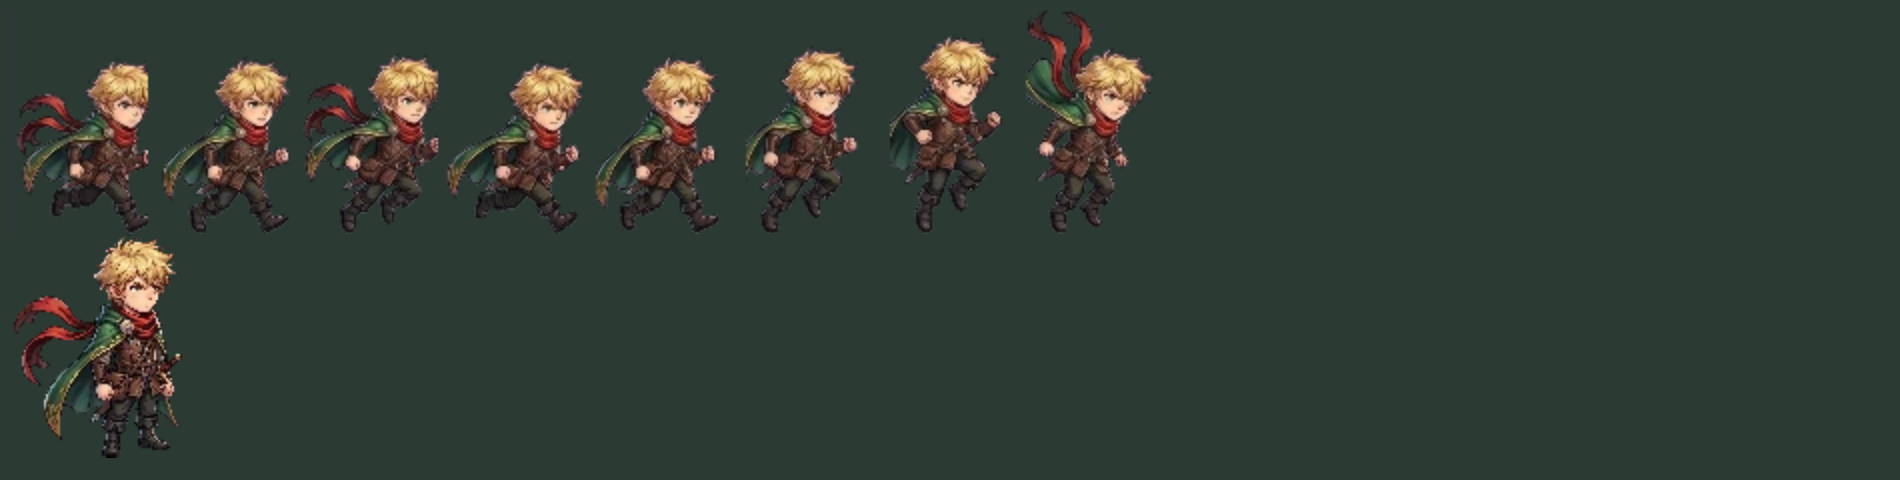
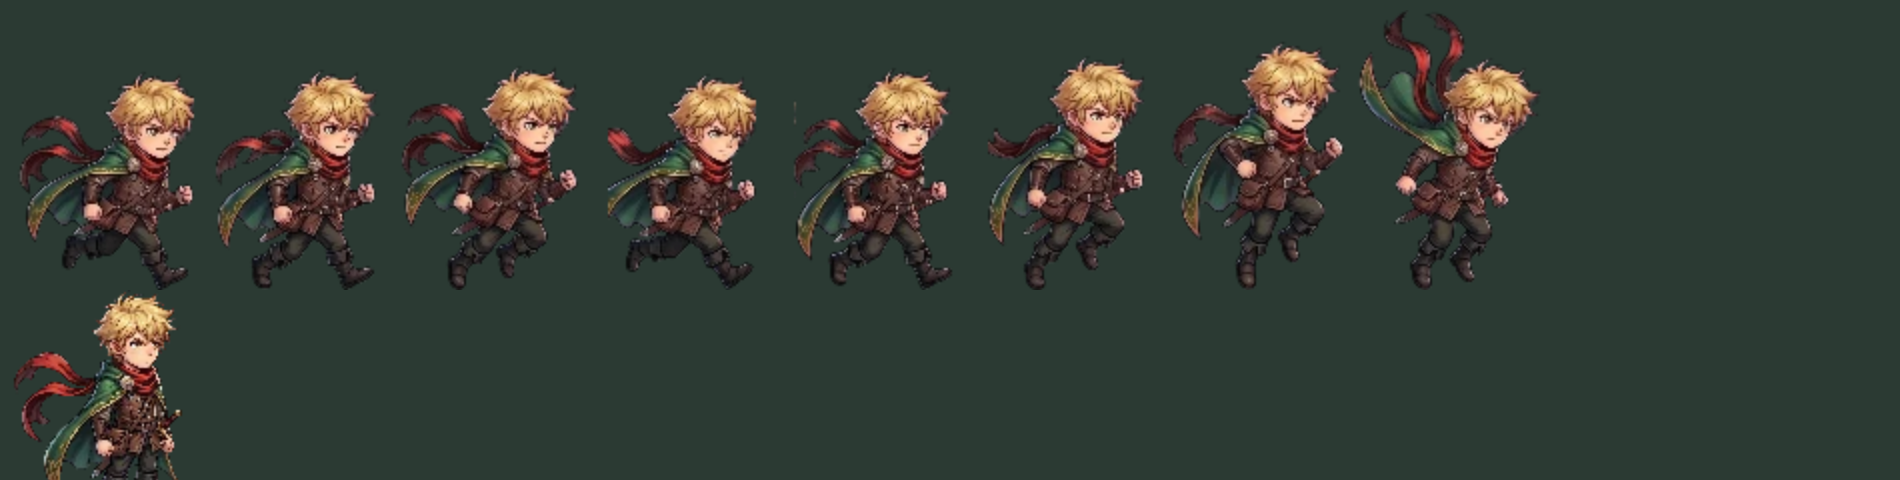
Hero: new 2K run sheet with the scarf in every frame; running and standing now match in size
tools/sheet.mjs scales by the median frame height (shared pixel scale across sheets) and cuts
overlapping frames at the emptiest column between figures.

Changed region(s): [[0.0, 0.0312, 0.8074, 1.0]]

diff --git a/game.js b/game.js
@@ -13,6 +13,7 @@ const COYOTE = 0.1, BUFFER = 0.1, RESPAWN_DELAY = 0.35;
 const SLIDE_SPEED = 320, SLIDE_TIME = 0.4;
 const STAND = [24, 30], FLAT = [40, 14];               // player hitbox
 const HERO_HEIGHT = 46;                                // painted hero's on-screen height (hair pokes above the hitbox)
+const HERO_SRC = 112;                                  // his typical height in the processed images (tools/sheet.mjs --height)
 const BODY_STAND = [30, 32], BODY_LYING = [62, 16];    // body left behind
 
 // Enemies: walkers patrol, turn at walls/bodies/ledges, kill on touch, die when a falling body lands on them.
@@ -303,7 +304,7 @@ class Room extends Phaser.Scene {
     if (this.painted) {
       const tex = this.textures.get('heroSheet'), img = tex.getSourceImage(), fw = img.width / 8;
       if (!tex.has(0)) for (let i = 0; i < 8; i++) tex.add(i, 0, i * fw, 0, fw, img.height);
-      this.heroScale = HERO_HEIGHT / img.height;
+      this.heroScale = HERO_HEIGHT / HERO_SRC; // same pixel scale for every hero image
       this.heroSprite = this.add.image(0, 0, 'heroIdle').setOrigin(0.5, 1).setDepth(5.5);
       this.heroFrame = ['heroIdle', undefined];
     }
